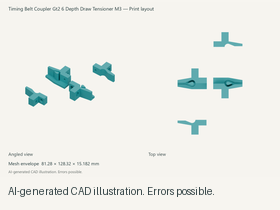
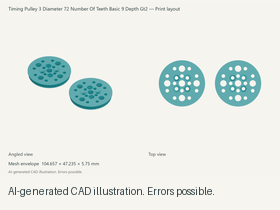
working

diff --git a/presentation/scripts/build_project_thumbnails.py b/presentation/scripts/build_project_thumbnails.py
@@ -27,7 +27,7 @@ SOURCES = [
     ("bearing-holders", "oomlout_oobb_part_holder_bearing_version_5", "parts/oobb_part_holder_90_degree_bearing_606_bearing_size_3_width_3_height_12_depth/3dpr_presentation.png"),
     ("electronic-parts", "oomlout_oobb_electronic_version_5", "parts/oobb_part_electronic_spacer_big_plate_3_width_3_height_4_depth/3dpr_presentation.png"),
     ("gears", "oomlout_oobb_gear_version_5", "parts/oobb_part_gear_big_scale_1_diameter_10_teeth_standard_style_6_mm_depth/3dpr_presentation.png"),
-    ("timing-pulleys", "oomlout_oobb_part_timing_pulley_version_5", "parts/oobb_part_timing_belt_coupler_gt2_6_depth_draw_tensioner_m3/3dpr_presentation.png"),
+    ("timing-pulleys", "oomlout_oobb_part_timing_pulley_version_5", "parts/oobb_part_timing_pulley_3_diameter_72_number_of_teeth_basic_9_depth_gt2/3dpr_presentation.png"),
     ("cycloidal-gearbox", "oomlout_oobb_part_motor_gearbox_cycloidal_version_5", "presentation/images/in-use.png"),
     ("motor-holders", "oomlout_oobb_part_holder_motor_version_5", "parts/oobb_part_holder_motor_gear_tt_5_width_3_height_23d5_depth_bearing_6704_version2/assembled_printed.png"),
     ("timing-belt-storage", "oomlout_oobb_part_timing_belt_storage_version_5", "parts/oobb_part_timing_belt_storage_reel_gt2_belt_size_11_diameter_6_depth/3dpr_presentation.png"),
